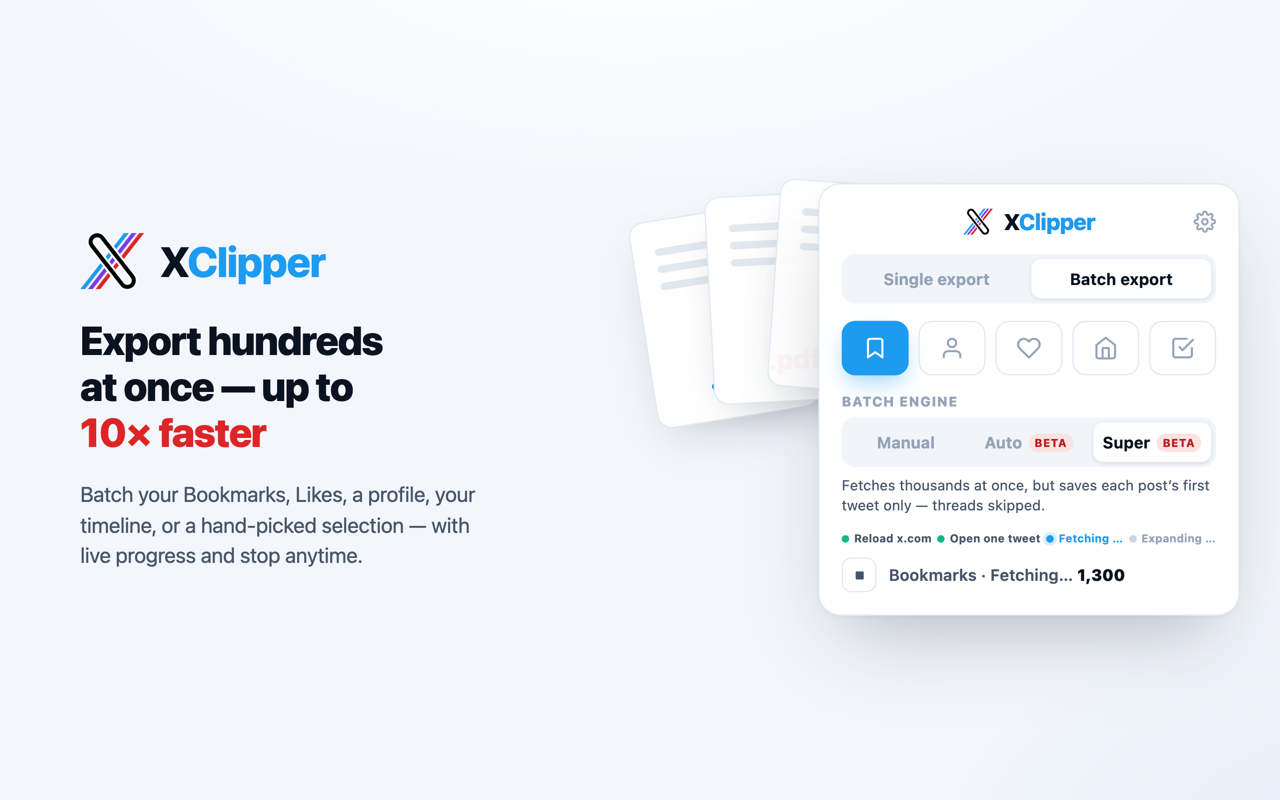
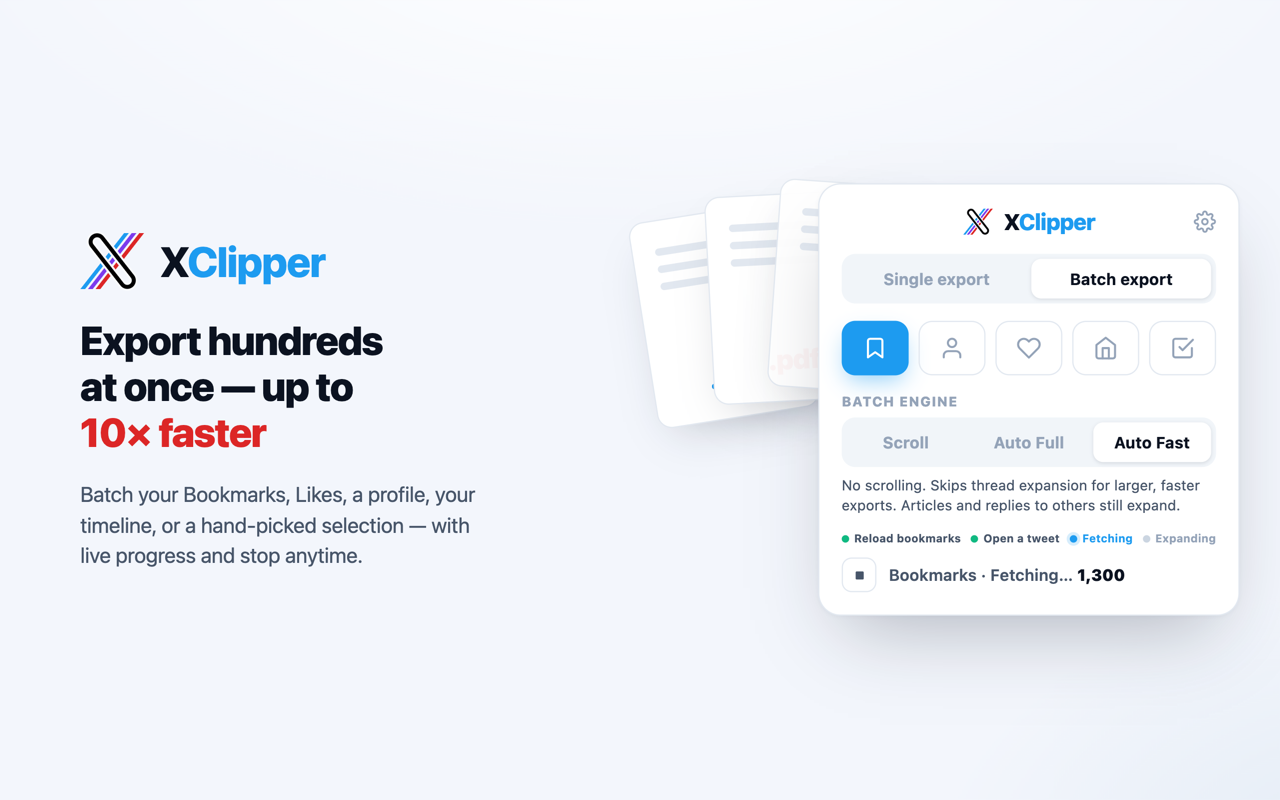
fix(mockups): show the renamed batch engines in the batch screenshot
Scroll, Auto Full, and Auto Fast replace Manual, Auto, and Super; the Beta
badges are gone; the caption and readiness lights match the popup.

Changed region(s): [[0.6562, 0.5938, 0.9375, 0.6875], [0.6875, 0.5312, 0.9375, 0.5625]]

diff --git a/store/mockups/07-batch-export.html b/store/mockups/07-batch-export.html
@@ -162,7 +162,6 @@
   .mode { display: flex; align-items: center; background: #f1f5f9; border-radius: 11px; padding: 4px; gap: 4px; }
   .mode .opt { flex: 1; display: flex; align-items: center; justify-content: center; gap: 5px; font-size: 13px; font-weight: 700; color: var(--ink-3); padding: 8px 0; border-radius: 8px; }
   .mode .opt.active { background: #ffffff; color: var(--ink); box-shadow: 0 1px 3px rgba(15,23,42,.12); }
-  .mode .beta { font-size: 9px; font-weight: 800; color: #b91c1c; background: #fee2e2; border-radius: 999px; padding: 2px 5px; letter-spacing: .04em; text-transform: uppercase; }
   .mode-caption { font-size: 11.5px; color: var(--ink-2); line-height: 1.35; }
 
   .progress { display: flex; flex-direction: column; gap: 10px; }
@@ -229,26 +228,26 @@
           <div class="tab" title="Selection"><svg viewBox="0 0 24 24"><polyline points="9 11 12 14 22 4"/><path d="M21 12v7a2 2 0 0 1-2 2H5a2 2 0 0 1-2-2V5a2 2 0 0 1 2-2h11"/></svg></div>
         </div>
 
-        <!-- Batch engine: Manual | Auto | Super -->
+        <!-- Batch engine: Scroll | Auto Full | Auto Fast -->
         <div class="mode-field">
           <div class="mode-label">Batch engine</div>
           <div class="mode">
-            <div class="opt">Manual</div>
-            <div class="opt">Auto<span class="beta">Beta</span></div>
-            <div class="opt active">Super<span class="beta">Beta</span></div>
+            <div class="opt">Scroll</div>
+            <div class="opt">Auto Full</div>
+            <div class="opt active">Auto Fast</div>
           </div>
-          <div class="mode-caption">Fetches thousands at once, but saves each post&rsquo;s first tweet only &mdash; threads skipped.</div>
+          <div class="mode-caption">No scrolling. Skips thread expansion for larger, faster exports. Articles and replies to others still expand.</div>
         </div>
 
-        <!-- Progress (Super running). Auto/Super have Stop but no Pause, and no
+        <!-- Progress (Auto Fast running). Auto Full/Auto Fast have Stop but no Pause, and no
              determinate bar — collection is open-ended, so a fraction would be
              fake. The step lights and live count carry progress, as in the popup. -->
         <div class="progress">
           <div class="steps">
-            <span class="step done">Reload x.com</span>
-            <span class="step done">Open one tweet</span>
-            <span class="step live">Fetching …</span>
-            <span class="step">Expanding …</span>
+            <span class="step done">Reload bookmarks</span>
+            <span class="step done">Open a tweet</span>
+            <span class="step live">Fetching</span>
+            <span class="step">Expanding</span>
           </div>
           <div class="prow">
             <div class="ctl"><svg viewBox="0 0 24 24"><rect x="6" y="6" width="12" height="12" rx="1.5"/></svg></div>
